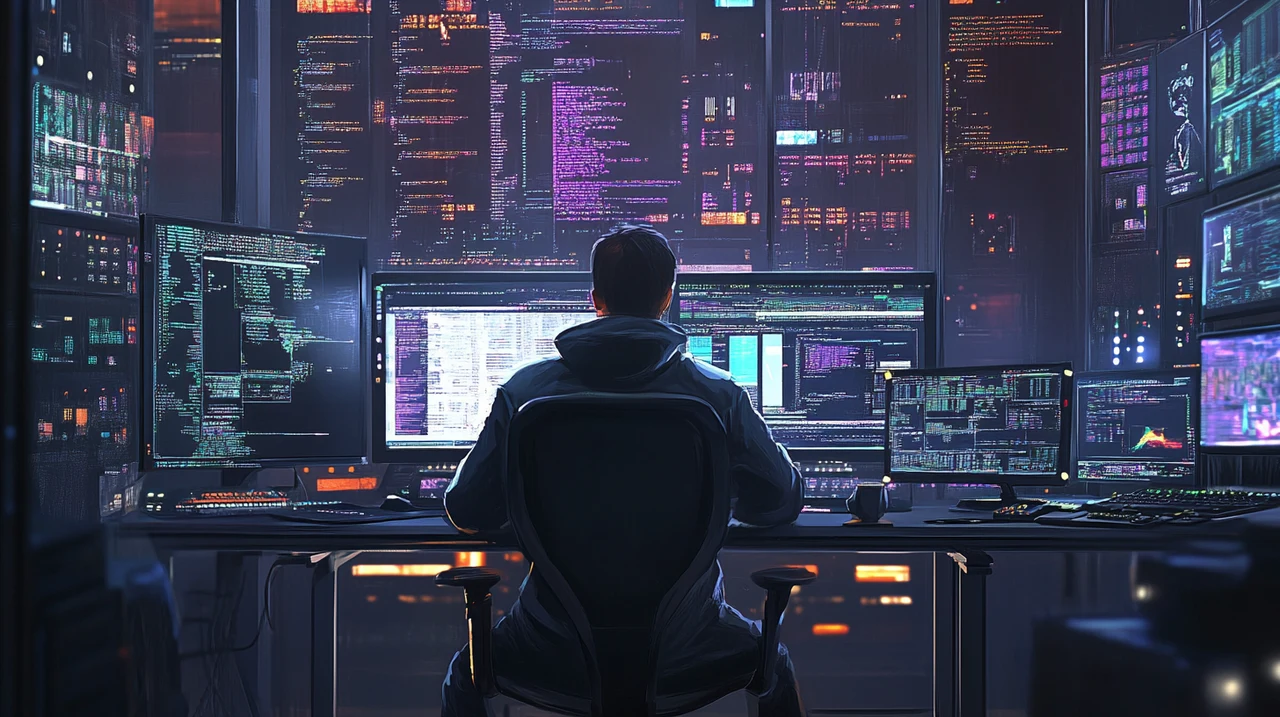
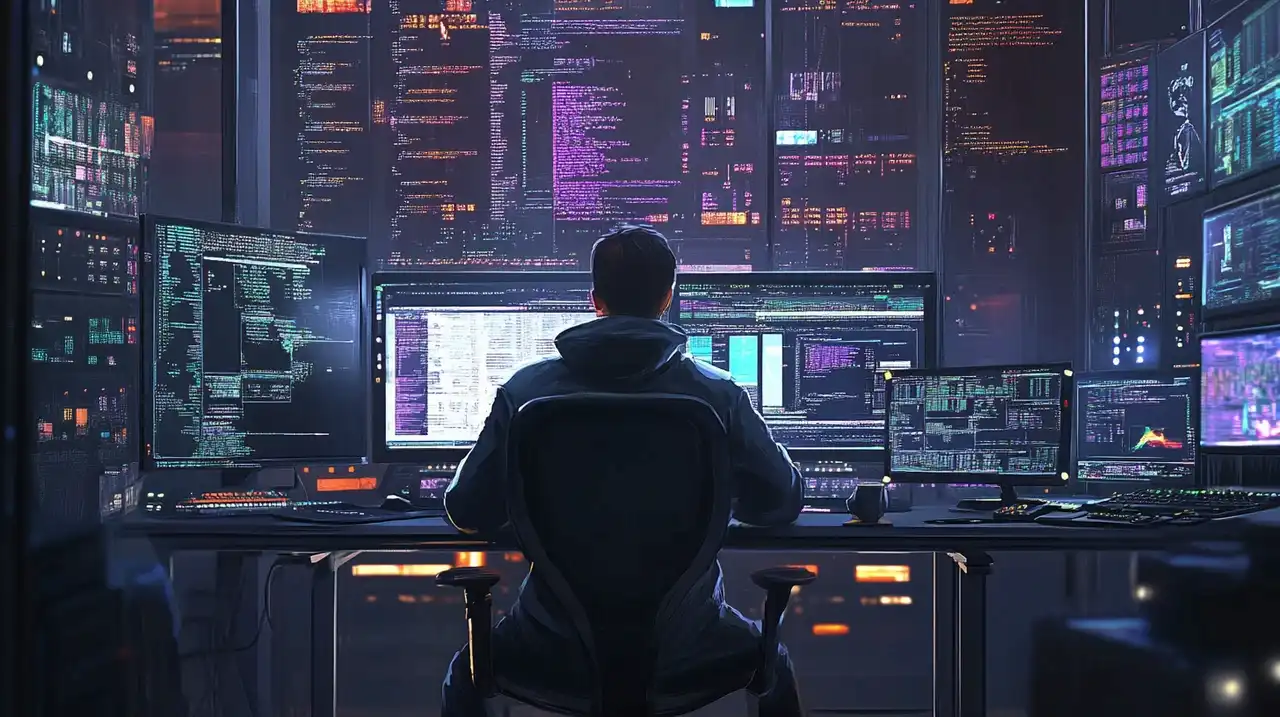
Se arreglaron problemas de accesibilidad

diff --git a/index.html b/index.html
@@ -12,6 +12,8 @@
     <link href="https://fonts.googleapis.com/css2?family=Inter:ital,opsz,wght@0,14..32,100..900;1,14..32,100..900&family=Lavishly+Yours&display=swap" rel="stylesheet">
     
     <!-- CSS Styles -->
+    <link rel="preload" as="image" href="assets/images/programing-background.webp">
+
     <link rel="stylesheet" href="css/styles.css">
     <link rel="stylesheet" href="css/normalize.css">
     <script type="module" src="js/main.js"></script>
@@ -38,7 +40,7 @@
                         <span id="logo__dedsec">DS</span>
                     </a>
 
-                    <button id="hamburger">
+                    <button id="hamburger" aria-label="button mobile">
                         <span></span>
                         <span></span>
                         <span></span>
@@ -58,15 +60,15 @@
             <div class="header__content">
                 <h1>Hola! Soy Aldair Rutte Bazán</h1>
                 <ul class="list__social">
-                    <li><a href="https://github.com/DedSec76" target="_blank"><figure><img src="assets/logos/github-link.png" alt=""></figure></a></li>
-                    <li><a href="https://www.linkedin.com/in/aldair-rutte-bazan-87b2b730b" target="_blank"><figure><img src="assets/logos/linkedin.png" alt=""></figure></a></li>
-                    <li><a href="https://www.tiktok.com/@dedkaizen" target="_blank"><figure><img src="assets/logos/tik-tok.png" alt=""></figure></a></li>
+                    <li><a aria-label="Visit my github to see more about my work" href="https://github.com/DedSec76" target="_blank"><figure><img src="assets/logos/github-link.png" alt=""></figure></a></li>
+                    <li><a aria-label="Visit my Linkedin to see my corporate profile" href="https://www.linkedin.com/in/aldair-rutte-bazan-87b2b730b" target="_blank"><figure><img src="assets/logos/linkedin.png" alt=""></figure></a></li>
+                    <li><a aria-label="Visit my tiktok to see demos and videos about my projects" href="https://www.tiktok.com/@dedkaizen" target="_blank"><figure><img src="assets/logos/tik-tok.png" alt=""></figure></a></li>
                 </ul>
                 <p>Tengo 2 años de experiencia desarrollando aplicaciones web, para empresas y proyectos personales. Actualmente
                 me encuentro estudiando Software Development en BYU–Idaho, he participado en trabajos colaborativo mediante Git y metodologías ágiles.
                 </p>
 
-                <h4>- Inglés Intermedio</h4>
+                <span id="language">- Inglés Intermedio</span>
             
                 <a href="assets/C.V.Aldair-Rutte-Web-Developer.pdf" class="btn btn_download" download><img src="assets/logos/cv.png" alt="icon cv"> Download CV</a>
             </div>
@@ -84,9 +86,9 @@
 
                             <div class="contenedor">
                                 <div class="slides">
-                                    <img data-tag="devwebcamp" src="assets/images/projects/devwebcamp/DevwebcampInicio.webp" alt="project-image">
-                                    <img data-tag="devwebcamp" src="assets/images/projects/devwebcamp/DevwebcampGrafico.webp" alt="project-image2">
-                                    <img data-tag="devwebcamp" src="assets/images/projects/devwebcamp/DevwebcampAdmin.webp" alt="project-image3">
+                                    <img src="assets/images/projects/devwebcamp/DevwebcampInicio-mobile.webp" alt="project-image">
+                                    <img src="assets/images/projects/devwebcamp/DevwebcampGrafico-mobile.webp" alt="project-image2">
+                                    <img src="assets/images/projects/devwebcamp/DevwebcampAdmin-mobile.webp" alt="project-image3">
                                 </div>
                             </div>
 
@@ -111,11 +113,31 @@
                             <button type="button" class="btn prev">&#10094;</button>
 
                             <div class="contenedor">
-                                <div class="slides" data-name="compareready">
-                                    <img src="assets/images/projects/compareReady/ComparereadyInicio.webp" alt="project-compare-inicio">
-                                    <img src="assets/images/projects/compareReady/ComparereadyCompare1.webp" alt="project-compare-1">
-                                    <img src="assets/images/projects/compareReady/ComparereadyCompare2.webp" alt="project-compare-2">
-                                    <img src="assets/images/projects/compareReady/ComparereadyCompareFinish.webp" alt="project-compare-finish">
+                                <div class="slides">
+                                    <img 
+                                        src="assets/images/projects/compareReady/ComparereadyInicio-mobile.webp" 
+                                        srcset="assets/images/projects/compareReady/ComparereadyInicio-mobile.webp 1x
+                                                assets/images/projects/compareReady/ComparereadyInicio.webp 2x
+                                        "
+                                        alt="project-compare-inicio">                                                                                                            
+                                    <img 
+                                        src="assets/images/projects/compareReady/ComparereadyCompare1-mobile.webp" 
+                                        srcset="assets/images/projects/compareReady/ComparereadyCompare1-mobile.webp 1x
+                                                assets/images/projects/compareReady/ComparereadyCompare1.webp 2x
+                                        "
+                                        alt="project-compare-1">                                                                                                              
+                                    <img 
+                                        src="assets/images/projects/compareReady/ComparereadyCompare2-mobile.webp" 
+                                        srcset="assets/images/projects/compareReady/ComparereadyCompare2-mobile.webp 1x
+                                                assets/images/projects/compareReady/ComparereadyCompare2.webp 2x
+                                        "
+                                        alt="project-compare-2">                                       
+                                    <img 
+                                        src="assets/images/projects/compareReady/ComparereadyCompareFinish-mobile.webp" 
+                                        srcset="assets/images/projects/compareReady/ComparereadyCompareFinish-mobile.webp 1x
+                                                assets/images/projects/compareReady/ComparereadyCompareFinish.webp 2x
+                                        "
+                                        alt="project-compare-finish">
                                 </div>
                             </div>
 
@@ -141,7 +163,7 @@
 
                 <section class="education__current">
                     <div class="side__left">
-                        <h4>Desarrollo de Software</h4>
+                        <h3>Desarrollo de Software</h3>
                         <p>Octubre 2024 - Actualmente | BYU</p>
                     </div>
                     <div class="timeline">
@@ -157,7 +179,7 @@
                 </section>
                 <section class="education__past">
                     <div class="side__left">
-                        <h4>Redes y Conectividad</h4>
+                        <h3>Redes y Conectividad</h3>
                         <p>Julio 2025 - Septiembre 2025 | Fundet</p>
                     </div>
                     <div class="timeline">
@@ -172,7 +194,7 @@
                 </section>
                 <section class="education__ancestor">
                     <div class="side__left">
-                        <h4>Ingeniería de Software</h4>
+                        <h3>Ingeniería de Software</h3>
                         <p>Abril 2017 - Octubre 2021 (8vo ciclo) | Universidad Cesar Vallejo</p>
                     </div>
                     <div class="timeline">
@@ -187,7 +209,7 @@
                 </section>
                 <section class="education__beancestor">
                     <div class="side__left">
-                        <h4>Ensamblaje de Computadoras</h4>
+                        <h3>Ensamblaje de Computadoras</h3>
                         <p>Marzo 2015 - Octubre 2015 | Instituto La Católica</p>
                     </div>
                     <div class="timeline">
@@ -205,7 +227,7 @@
             <article id="technology" class="main__stack">
                 <h2>Tecnología Principal</h2>
                 <section class="frontend">
-                    <h4>Frontend</h4>
+                    <h3>Frontend</h3>
                     <ul>
                         <li><figure><img src="assets/logos/html.png" alt="html logo"></figure><figcaption>HTML</figcaption></li>
                         <li><figure><img src="assets/logos/css-3.png" alt="css logo"></figure><figcaption>CSS</figcaption></li>
@@ -213,7 +235,7 @@
                     </ul>
                 </section>
                 <section class="backend">
-                    <h4>Backend</h4>
+                    <h3>Backend</h3>
                     <ul>
                         <li><figure><img src="assets/logos/php.png" alt="html logo"></figure><figcaption>PHP</figcaption></li>
                         <li><figure><img src="assets/logos/python.png" alt="html logo"></figure><figcaption>PYTHON</figcaption></li>
@@ -222,7 +244,7 @@
                     </ul>
                 </section>
                 <section class="others">
-                    <h4>Otras Tecnologías</h4>
+                    <h3>Otras Tecnologías</h3>
                     <ul>
                         <li><figure><img src="assets/logos/git.png" alt="git logo"></figure><figcaption>GIT</figcaption></li>
                         <li><figure><img src="assets/logos/github.png" alt="github logo"></figure><figcaption>GITHUB</figcaption></li>
@@ -234,7 +256,7 @@
                     </ul>
                 </section>
                 <section class="office">
-                    <h4>Office</h4>
+                    <h3>Office</h3>
                     <ul>
                         <li><figure><img src="assets/logos/word.png" alt="word logo"></figure><figcaption>WORD</figcaption></li>
                         <li><figure><img src="assets/logos/excel.png" alt="excel logo"></figure><figcaption>EXCEL</figcaption></li>
@@ -297,9 +319,9 @@
             </section>
             <section class="footer__icons">
                 <ul class="list__social">
-                    <li><a href="https://github.com/DedSec76" target="_blank"><figure><img src="assets/logos/github-link.png" alt=""></figure></a></li>
-                    <li><a href="https://www.linkedin.com/in/aldair-rutte-bazan-87b2b730b" target="_blank"><figure><img src="assets/logos/linkedin.png" alt=""></figure></a></li>
-                    <li><a href="https://www.tiktok.com/@dedkaizen" target="_blank"><figure><img src="assets/logos/tik-tok.png" alt=""></figure></a></li>
+                    <li><a aria-label="Visit my github to see more about my work" href="https://github.com/DedSec76" target="_blank"><figure><img src="assets/logos/github-link.png" alt=""></figure></a></li>
+                    <li><a aria-label="Visit my Linkedin to see my corporate profile" href="https://www.linkedin.com/in/aldair-rutte-bazan-87b2b730b" target="_blank"><figure><img src="assets/logos/linkedin.png" alt=""></figure></a></li>
+                    <li><a aria-label="Visit my tiktok to see demos and videos about my projects" href="https://www.tiktok.com/@dedkaizen" target="_blank"><figure><img src="assets/logos/tik-tok.png" alt=""></figure></a></li>
                 </ul>
             </section>
         </div>

diff --git a/certificates.html b/certificates.html
@@ -34,7 +34,7 @@
                     </svg>
                     <span id="logo__dedsec">DS</span>
                 </a>
-                <button id="hamburger">
+                <button id="hamburger" aria-label="button mobile">
                     <span></span>
                     <span></span>
                     <span></span>
@@ -58,8 +58,8 @@
                 <img src="assets/images/certificate/boardWood.webp" alt="">
                 <div class="certificate_content">
                     <button>👁</button>
-                    <img src="assets/images/certificate/certificateBYU.png" alt="img-certificate">
-                    <h3>Web & Computer Programming</h2>
+                    <img src="assets/images/certificate/certificateBYU-large.webp" alt="img-certificate">
+                    <h2>Web & Computer Programming</h2>
                 </div>
             </div>
             <div class="bg_certificate">
@@ -67,7 +67,7 @@
                 <div class="certificate_content">
                     <button>👁</button>
                     <img src="assets/images/certificate/certificateUdemy.webp" alt="img-certificate">
-                    <h3>Desarrollo Web Completo - PHP y MySQL</h2>
+                    <h2>Desarrollo Web Completo - PHP y MySQL</h2>
                 </div>
             </div>
         </div>
@@ -87,9 +87,9 @@
             </section>
             <section class="footer__icons">
                 <ul class="list__social">
-                    <li><a href="https://github.com/DedSec76" target="_blank"><figure><img src="assets/logos/github-link.png" alt=""></figure></a></li>
-                    <li><a href="https://www.linkedin.com/in/aldair-rutte-bazan-87b2b730b" target="_blank"><figure><img src="assets/logos/linkedin.png" alt=""></figure></a></li>
-                    <li><a href="https://www.tiktok.com/@dedkaizen" target="_blank"><figure><img src="assets/logos/tik-tok.png" alt=""></figure></a></li>
+                    <li><a aria-label="Visit my github to see more about my work" href="https://github.com/DedSec76" target="_blank"><figure><img src="assets/logos/github-link.png" alt=""></figure></a></li>
+                    <li><a aria-label="Visit my Linkedin to see my corporate profile" href="https://www.linkedin.com/in/aldair-rutte-bazan-87b2b730b" target="_blank"><figure><img src="assets/logos/linkedin.png" alt=""></figure></a></li>
+                    <li><a aria-label="Visit my tiktok to see demos and videos about my projects" href="https://www.tiktok.com/@dedkaizen" target="_blank"><figure><img src="assets/logos/tik-tok.png" alt=""></figure></a></li>
                 </ul>
             </section>
         </div>

diff --git a/projects.html b/projects.html
@@ -35,7 +35,7 @@
                         </svg>
                         <span id="logo__dedsec">DS</span>
                     </a>
-                    <button id="hamburger">
+                    <button id="hamburger" aria-label="button mobile">
                         <span></span>
                         <span></span>
                         <span></span>
@@ -52,7 +52,7 @@
         </header>
         <main class="projects_main">
             <h1>Proyectos</h1>
-
+            <h2>Destacados</h2>
             <div class="projects__list"></div>
 
         </main>
@@ -73,9 +73,9 @@
             </section>
             <section class="footer__icons">
                 <ul class="list__social">
-                    <li><a href="https://github.com/DedSec76" target="_blank"><figure><img src="assets/logos/github-link.png" alt=""></figure></a></li>
-                    <li><a href="https://www.linkedin.com/in/aldair-rutte-bazan-87b2b730b" target="_blank"><figure><img src="assets/logos/linkedin.png" alt=""></figure></a></li>
-                    <li><a href="https://www.tiktok.com/@dedkaizen" target="_blank"><figure><img src="assets/logos/tik-tok.png" alt=""></figure></a></li>
+                    <li><a aria-label="Visit my github to see more about my work" href="https://github.com/DedSec76" target="_blank"><figure><img src="assets/logos/github-link.png" alt=""></figure></a></li>
+                    <li><a aria-label="Visit my Linkedin to see my corporate profile" href="https://www.linkedin.com/in/aldair-rutte-bazan-87b2b730b" target="_blank"><figure><img src="assets/logos/linkedin.png" alt=""></figure></a></li>
+                    <li><a aria-label="Visit my tiktok to see demos and videos about my projects" href="https://www.tiktok.com/@dedkaizen" target="_blank"><figure><img src="assets/logos/tik-tok.png" alt=""></figure></a></li>
                 </ul>
             </section>
         </div>

diff --git a/css/styles.css b/css/styles.css
@@ -328,7 +328,9 @@ body {
         max-width: 600px;
     }
 
-    h4 {
+    #language {
+        display: block;
+        font-weight: bold;
         letter-spacing: -0.2px;
         text-align: left;
         color: var(--background-body);
@@ -792,6 +794,10 @@ body {
         margin: 0 0 1.5rem;
         text-align: center;
     }
+
+    h2 {
+        margin: 0 0 1.5rem;
+    }
 }
 
 .details {
@@ -872,10 +878,11 @@ body {
     img {
         filter: brightness(.9);
         width: 44%;
-        min-height: 198px;
+        min-height: 196px;
     }
 
-    h3 {
+    h2 {
+        font-size: var(--font-size-h3);
         margin-top: .2rem;
         color: var(--background-body);
     }
